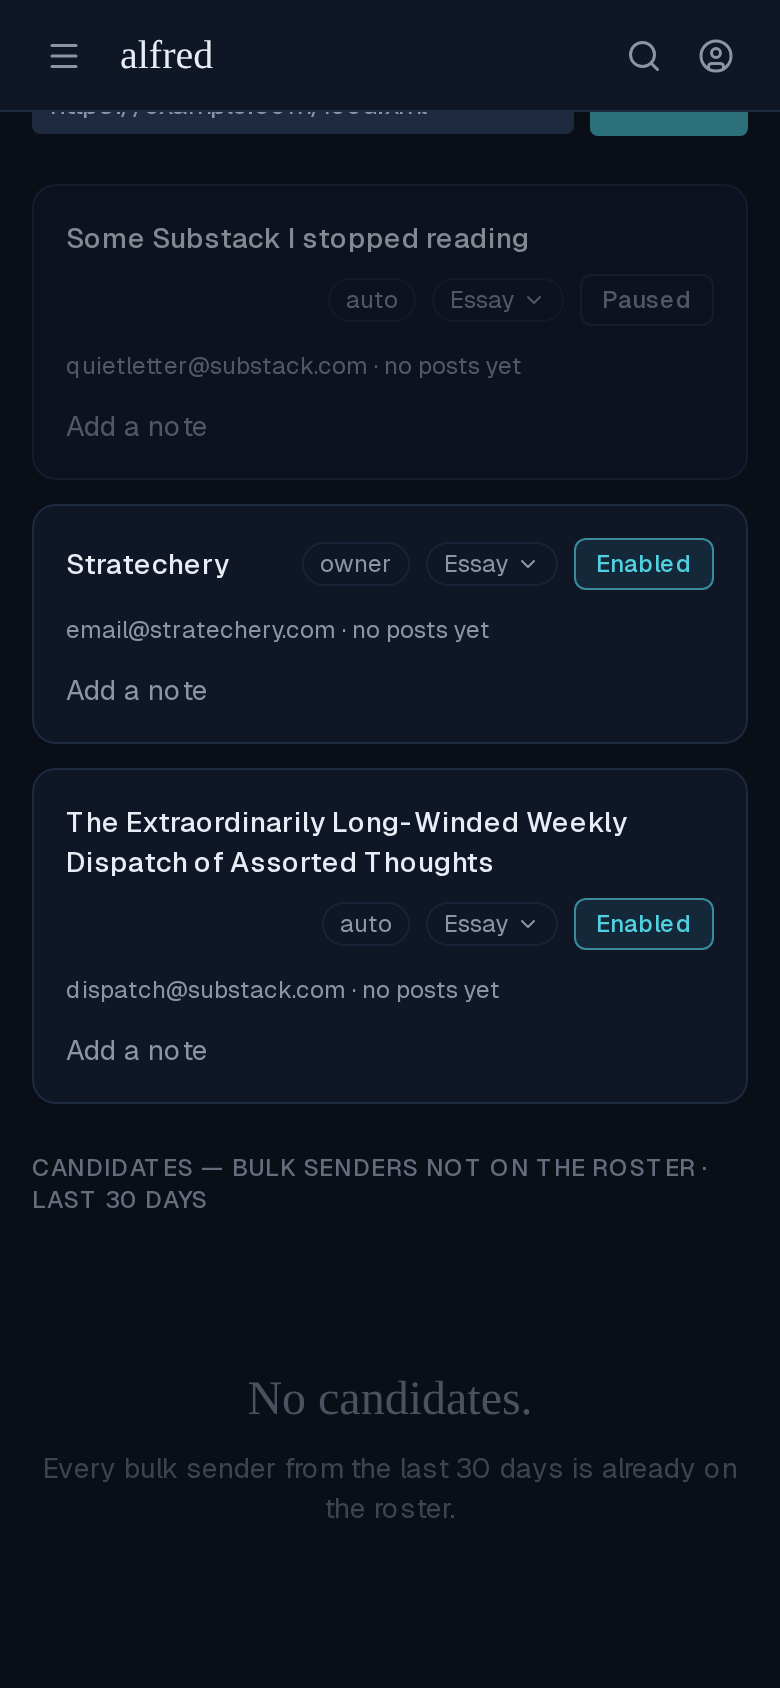
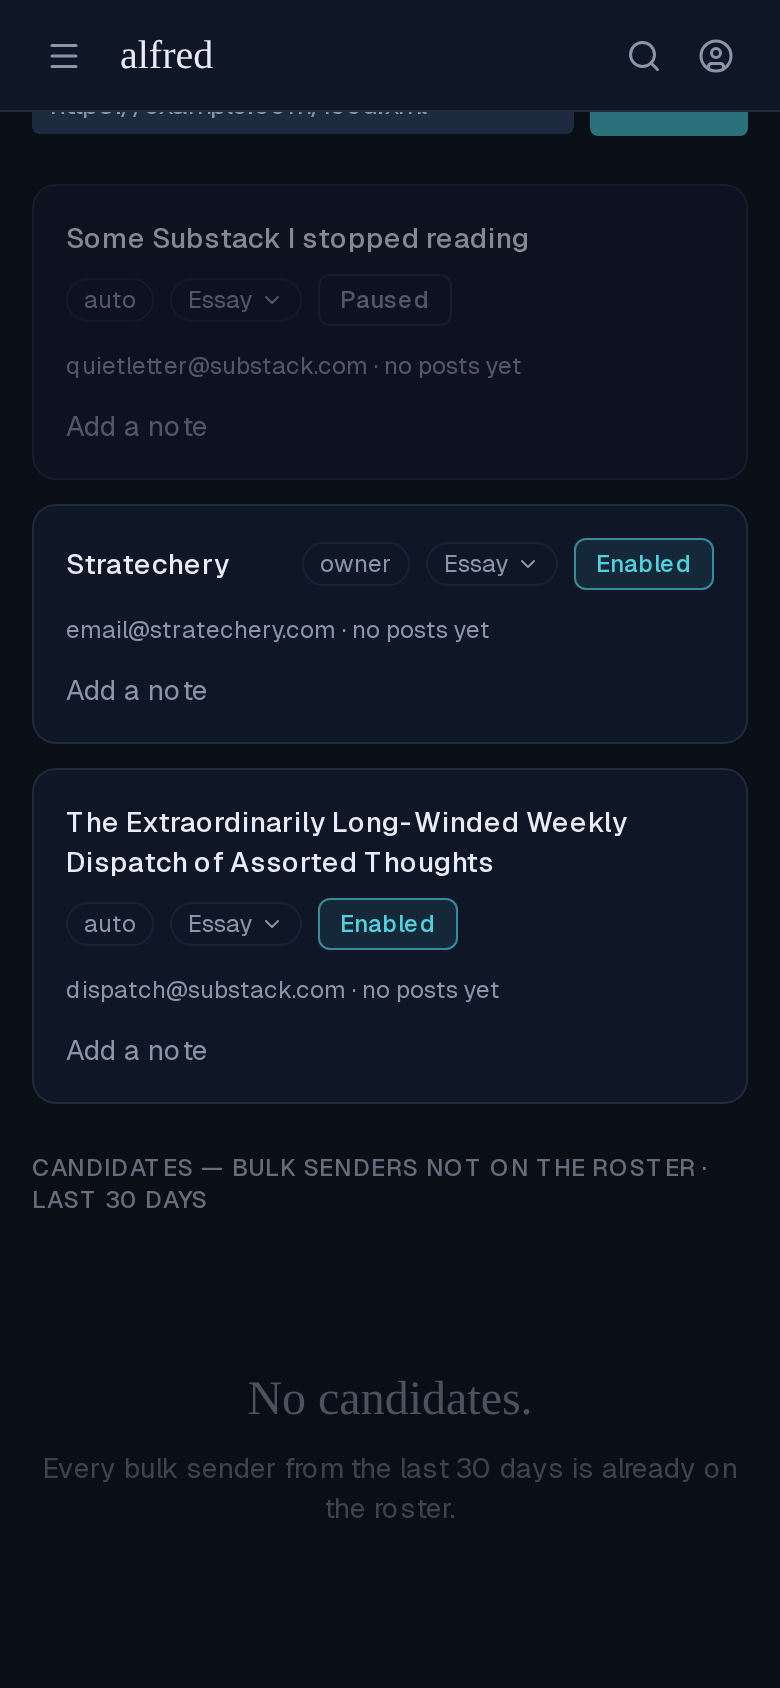
docs(demos): reshoot the publication title row with left-aligned wrapped controls

diff --git a/docs/demos/reader-publications-mobile-title-row/title-row.md b/docs/demos/reader-publications-mobile-title-row/title-row.md
@@ -12,6 +12,6 @@ A publication card's title row is the name, provenance chip, kind chip and pause
 
 ![](title-row-image-1.png)
 
-**After** — when the name can't share the line, the three controls drop to a second row together, right-aligned as on desktop, and the name stays whole. A name wider than the card wraps across lines. A short name (Stratechery) keeps everything on one row, unchanged:
+**After** — when the name can't share the line, the three controls drop to a second row together, left-aligned under the name, and the name stays whole. A name wider than the card wraps across lines. A short name (Stratechery) keeps everything on one row, controls flush right as before:
 
 ![](title-row-image-2.png)
